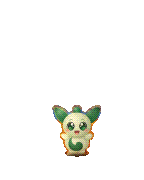
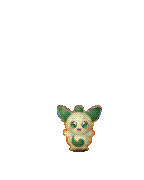
Accueil : Claaky repeint dans la texture du paysage, à moitié dans les hautes herbes
Claude-Session: https://claude.ai/code/session_01K8Up91hhRQymWUsQ9ayYua

Changed region(s): [[0.3611, 0.5833, 0.7222, 0.8889]]

diff --git a/scripts/welcome-art/generate_welcome_art.py b/scripts/welcome-art/generate_welcome_art.py
@@ -37,8 +37,8 @@ SCALE = 5                    # hi-res painting scale
 W, H = CELLS_W * SCALE, CELLS_H * SCALE
 
 # Claaky stands on the path, mid-distance (feet position, height in px).
-CLAAKY_FEET = (CELLS_W * SCALE * 0.535, CELLS_H * SCALE * 0.865)
-CLAAKY_H = CELLS_H * SCALE * 0.27
+CLAAKY_FEET = (CELLS_W * SCALE * 0.55, CELLS_H * SCALE * 0.84)
+CLAAKY_H = CELLS_H * SCALE * 0.245
 
 rng = random.Random(7)
 nrng = np.random.default_rng(7)
@@ -528,11 +528,20 @@ def paint_front():
     img = Image.new("RGBA", (W, H), (0, 0, 0, 0))
     d = ImageDraw.Draw(img)
     fx, fy = CLAAKY_FEET
-    for _ in range(420):  # tufts hiding Claaky's feet in the grass
-        x = fx + rng.gauss(0, X(0.06))
-        y = fy + rng.uniform(-Y(0.004), Y(0.02))
-        h = rng.uniform(7, 18)
-        d.line((x, y, x + rng.uniform(-4, 4), y - h), fill=autumn_color(rng.uniform(0.25, 0.9)) + (255,), width=2)
+    # Tall autumn grass growing in front of Claaky: hides his feet and legs.
+    for _ in range(900):
+        x = fx + rng.gauss(0, X(0.075))
+        y = fy + rng.uniform(-Y(0.002), Y(0.03))
+        near = 1 - min(1, abs(x - fx) / X(0.12))
+        h = rng.uniform(8, 16) + near * rng.uniform(10, 34)
+        lean = rng.uniform(-7, 7)
+        col = autumn_color(rng.uniform(0.25, 0.95))
+        d.line((x, y, x + lean * 0.5, y - h * 0.6, x + lean, y - h), fill=col + (255,), width=2, joint="curve")
+        if rng.random() < 0.07:  # seed heads
+            r = rng.uniform(1.6, 2.6)
+            d.ellipse((x + lean - r, y - h - r, x + lean + r, y - h + r), fill=rng.choice(AUTUMN_SPARK) + (255,))
+    # A low bush overlapping Claaky's side, between him and the viewer.
+    canopy(d, fx - X(0.115), fy + Y(0.012), X(0.075), Y(0.04), 520, 3, 6)
     return img
 
 
@@ -559,9 +568,42 @@ def claaky_sprite() -> Image.Image:
     rgb = rgb + rim[..., None] * np.array([90, 60, 20], float)
     ao = (1 - smoothstep(0.9, 1.0, ny) * 0.35)[..., None]
     rgb = rgb * ao
-    rgb = rgb * 0.96 + np.array(hex_rgb("#c27424"), float) * 0.04  # share the scene's air
+    rgb = rgb * 0.94 + np.array(hex_rgb("#c27424"), float) * 0.06  # share the scene's air
+    # Volume: darker towards the silhouette (a rounded body, not a flat decal).
+    dist = ndimage.distance_transform_edt(alpha > 0.5)
+    roundness = np.clip(dist / (0.16 * w), 0, 1)
+    rgb = rgb * (0.80 + 0.20 * np.sqrt(roundness))[..., None]
+    rgb = rgb * 0.96  # not the brightest thing in the landscape
     arr[..., :3] = np.clip(rgb, 0, 255)
-    return Image.fromarray(arr.astype(np.uint8), "RGBA")
+    return painterize(Image.fromarray(arr.astype(np.uint8), "RGBA"))
+
+
+def painterize(sprite: Image.Image) -> Image.Image:
+    """Repaint the sprite with the same leaf-dab brushwork as the scene, so
+    Claaky shares the landscape's texture. Dabs spill slightly over the
+    silhouette (organic edge); a faint pass of the original keeps the face."""
+    arr = np.array(sprite)
+    a = arr[..., 3]
+    ys, xs = np.nonzero(a > 140)
+    r_ = np.random.default_rng(5)
+    pick = r_.choice(len(xs), size=len(xs) // 3, replace=True)
+    dabs = []
+    for i in pick:
+        x, y = int(xs[i]), int(ys[i])
+        c = arr[y, x, :3].astype(float) * (1 + r_.normal(0, 0.05))
+        c = c + r_.normal(0, 6, 3)
+        dabs.append((float(c.mean()), x + r_.normal(0, 0.8), y + r_.normal(0, 0.8), c))
+    dabs.sort(key=lambda d: d[0])
+    out = Image.new("RGBA", sprite.size, (0, 0, 0, 0))
+    d = ImageDraw.Draw(out)
+    for _, x, y, c in dabs:
+        rad = r_.uniform(1.3, 2.3)
+        col = tuple(int(v) for v in np.clip(c, 0, 255))
+        d.ellipse((x - rad, y - rad, x + rad, y + rad), fill=col + (255,))
+    ghost = np.array(sprite).astype(float)
+    ghost[..., 3] *= 0.55
+    out.alpha_composite(Image.fromarray(ghost.astype(np.uint8), "RGBA"))
+    return out
 
 
 def bake_claaky_frames(back_hi: Image.Image, sky: Image.Image):

diff --git a/AGENTS.md b/AGENTS.md
@@ -1,6 +1,6 @@
 Code map:
 - Marque : le logo vectoriel `ClaakeCodeMark.tsx` (SVG tracé depuis `claakecode-logo.png`, couleur `--logo`) représente le produit partout — barre de titre, en-tête de barre latérale, accueil, état vide de l'éditeur quand Claaky est désactivé (`EditorPane.tsx` → `.brand-tile`), écran de démarrage (`App.tsx`), Réglages → À propos. Claaky (mascotte) reste dans le chat (en-tête, réflexion, planification), dans sa chambre 3D au centre quand aucun fichier n'est ouvert (`ClaakyEmpty.tsx`), son compagnon et ses réglages, et dans l'illustration de l'accueil.
-- Accueil (switch de dossier) : `Welcome.tsx` en écran partagé — colonne type formulaire (boutons contour, fil d'Ariane, titre, champs « récents » soulignés, CTA sombre, note) + panneau `WelcomeArt.tsx` : canvas mosaïque LED (Claaky au bord d'un lac alpin en automne : sommets enneigés, reflet, forêt de mélèzes, grand arbre, bouleau, chemin), calques 144×180 + masque `water.png` (reflets du soleil) ; Claaky est ré-éclairé par la scène (lumière chaude à gauche, rebond orangé, ombre portée, herbe sur les pieds) et pré-incrusté avant la mosaïque dans `claaky0.png`/`claaky1.png` (repos / +1 cellule pour le sautillement) dans `src/assets/welcome/` générés par `scripts/welcome-art/generate_welcome_art.py` (sprite source `claaky-idle.png`) ; animations : révélation tramée Bayer, nuages qui défilent, Claaky qui sautille, feuilles qui tombent, rafale au clic. Peu de texte (fil d'Ariane, titre, récents avec chemins `~/…`, CTA). Espacements aérés dans `soft-ui.css` (barre de titre 44 px, `trafficLightPosition.y = 22`).
+- Accueil (switch de dossier) : `Welcome.tsx` en écran partagé — colonne type formulaire (boutons contour, fil d'Ariane, titre, champs « récents » soulignés, CTA sombre, note) + panneau `WelcomeArt.tsx` : canvas mosaïque LED (Claaky au bord d'un lac alpin en automne : sommets enneigés, reflet, forêt de mélèzes, grand arbre, bouleau, chemin), calques 144×180 + masque `water.png` (reflets du soleil) ; Claaky est ré-éclairé par la scène (lumière chaude à gauche, rebond orangé, volume, ombre portée), repeint en touches comme le feuillage (`painterize`), à moitié caché par les hautes herbes et un buisson (`front.png`) et pré-incrusté avant la mosaïque dans `claaky0.png`/`claaky1.png` (repos / +1 cellule pour le sautillement) dans `src/assets/welcome/` générés par `scripts/welcome-art/generate_welcome_art.py` (sprite source `claaky-idle.png`) ; animations : révélation tramée Bayer, nuages qui défilent, Claaky qui sautille, feuilles qui tombent, rafale au clic. Peu de texte (fil d'Ariane, titre, récents avec chemins `~/…`, CTA). Espacements aérés dans `soft-ui.css` (barre de titre 44 px, `trafficLightPosition.y = 22`).
 - Motion design du chat : `src/styles/chat-motion.css` (importé après `soft-ui.css` dans `src/main.tsx`) — entrée des 6 derniers messages (fondu + flou, bulle utilisateur à ressort), point « live » en fin de réponse via `.chat-body[data-phase]` (`ChatPane.tsx`), shimmer « Thinking », balayage des outils en cours via `.tool-card[data-status][data-tool]` (`ToolCard.tsx`), halo conique autour du composer pendant un tour (`.composer--selector-locked`), pilule glissante Chat/RLM (`ChatSurface.tsx`, variables `--ind-x/--ind-w`) ; tout est coupé sous `prefers-reduced-motion`.
 - Design system « Soft » (refonte UI, inspirée des listes iOS) : jetons clair/sombre en tête de `src/styles.css` (clair par défaut via `src/lib/theme.ts`), couche composants `src/styles/soft-ui.css` importée après dans `src/main.tsx` (barre de titre en pilule flottante `.titlebar__pill` dans `Workspace.tsx`, contrôles segmentés, composer flottant, bulles utilisateur à droite), avatars générés `src/components/BlobAvatar.tsx` (+ `shortRelativeTime`) utilisés par `ConversationList.tsx` et `Welcome.tsx` (Claaky 2D en héros), thèmes Monaco alignés dans `src/lib/monacoThemes.ts`, feux macOS recentrés (`trafficLightPosition.y = 22`, barre de 48 px).
 - IDE natif sans LLM : revue du diff avant commit (`git.rs` `git_file_diff_command`, `GitDiffDialog.tsx`), diagnostics automatiques `tsc`/`cargo check` après changement de fichier (`diagnostics.rs`, `ProblemsPanel.tsx`, marqueurs Monaco dans `EditorPane.tsx`, activation explicite par workspace) et hooks locaux configurables (`ide_hooks.rs`, `IdeHooksSection.tsx`, réglages dans le dossier de données de l'app, jamais lus depuis le dépôt) ; exécution bornée partagée dans `ide_process.rs`. Plans : `.claakecode/plans/plan-ide-*.md`.
